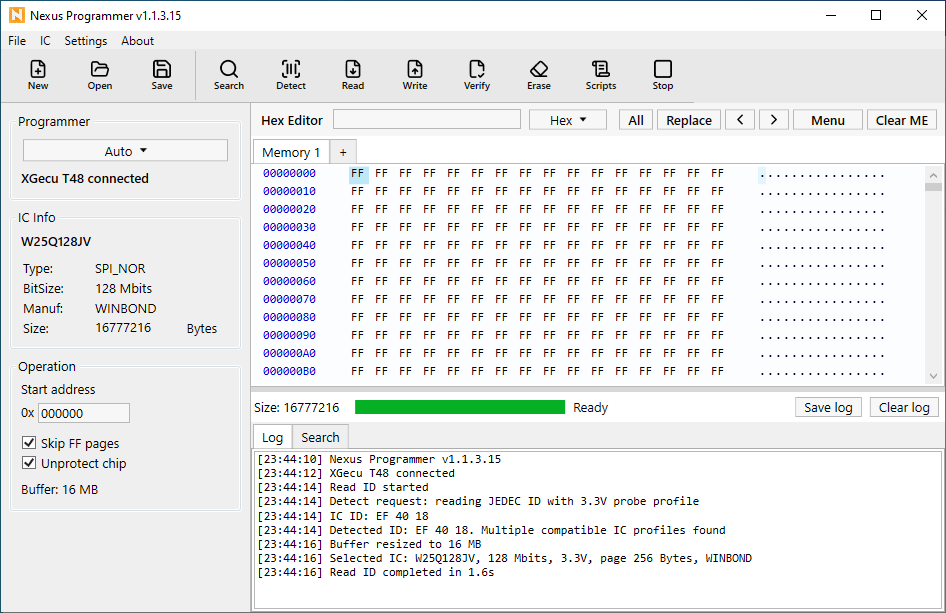
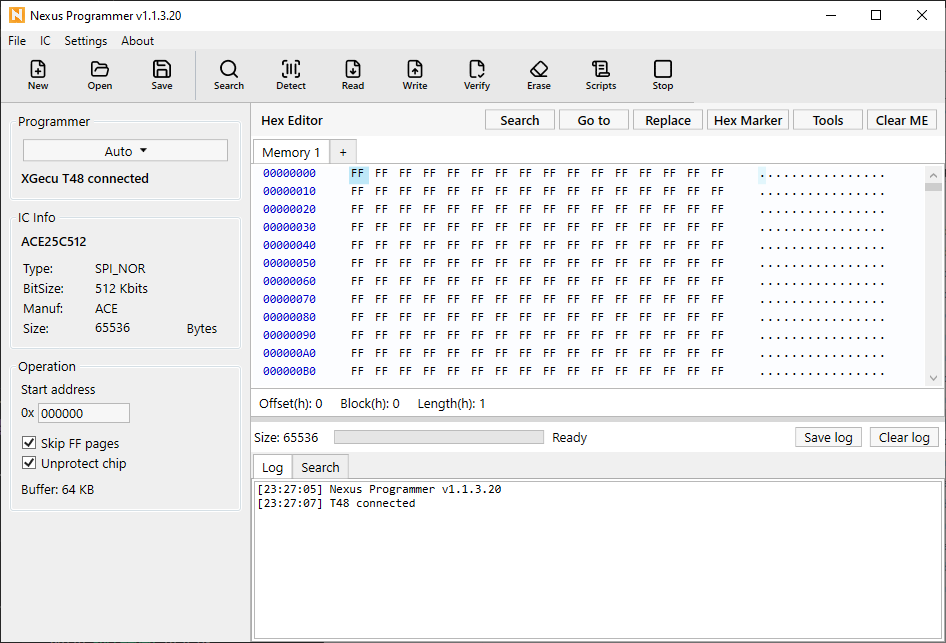
Log URL update

diff --git a/Views/MainWindow.xaml.cs b/Views/MainWindow.xaml.cs
@@ -639,6 +639,11 @@ public partial class MainWindow : Window
             });
 
             AppendLog($"Downloading update {result.DisplayLatestVersion}");
+            if (UpdateService.FindUpdateDownloadUrl(result.Release) is { } downloadUrl)
+            {
+                AppendLog($"Download URL: {downloadUrl}");
+            }
+
             var update = await UpdateService.DownloadAndPrepareUpdateAsync(result.Release, progress, cts.Token);
             AppendLog("Installing update");
             UpdateService.InstallPreparedUpdate(update);

diff --git a/Services/UpdateService.cs b/Services/UpdateService.cs
@@ -155,6 +155,9 @@ Remove-Item -LiteralPath $temp -Recurse -Force -ErrorAction SilentlyContinue
         Application.Current.Shutdown();
     }
 
+    public static string? FindUpdateDownloadUrl(GitHubRelease release) =>
+        FindUpdateAsset(release)?.DownloadUrl;
+
     private static GitHubReleaseAsset? FindUpdateAsset(GitHubRelease release) =>
         release.Assets?.FirstOrDefault(asset =>
             !string.IsNullOrWhiteSpace(asset.DownloadUrl) &&
